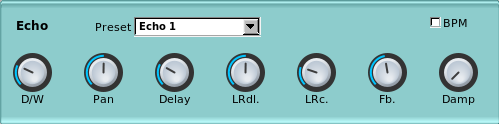
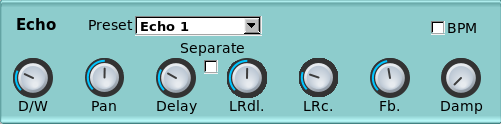
Deploy generated site
Based on source repo commit:
7684ace16a8e54c7c7140626fee4b77de72f6f30

diff --git a/docs/user-guide/effects/effects.html b/docs/user-guide/effects/effects.html
@@ -15,11 +15,11 @@
         Effects can be applied to single instruments or as Master System/Insertion effects.
         <br>
         Most effects have a <b>Preset</b> dropdown which allows you to select some 'factory' preset.
-        <br> For any effect, if you select a preset and then change controls this dropdown will become blue to remind you the preset has changed.
+        For any effect, if you select a preset and then change controls the text in this dropdown will become blue to remind you the preset has changed.
         <br><br>
         Note:
         <br>
-        &emsp;With the exception of the EQ effect, the D/W (Dry/Wet) control becomes a Vol (Volume) control when applied as a Master System effect. These are controlled from the <a href=../main.html#system>Main</a> window. In this section we always refer to D/W.
+        &emsp;With the exception of the EQ effect, the D/W (Dry/Wet) control becomes a Vol (Volume) control when applied as a Master System effect. These are found in the <a href=../main.html#system>Main</a> window. In this section we always refer to D/W.
     </p>
 
     <!-- REVERB -->
@@ -29,7 +29,7 @@
     </p>
     <ul>
         <li>
-            <b>Preset</b> select a default preset and set controls accordingly
+            <b>Preset</b> selects a default preset and set controls accordingly
             <br>
 
         </li>
@@ -82,7 +82,7 @@
     </p>
     <ul>
         <li>
-            <b>Preset</b> select a default preset and set controls accordingly
+            <b>Preset</b> selects a default preset and set controls accordingly
         </li>
         <li>
             <b>BPM</b> When checked locks the delay control to the incoming MIDI clock
@@ -94,7 +94,13 @@
             <b>Pan</b> The left/right panning (panorama) for the effect
         </li>
         <li>
-            <b>LRdl.</b> Delay between left and right. This can effectively be used to create a 'stereo echo/delay' effect
+            <b>Delay</b> The time between echo repeats
+        </li>
+        <li>
+            <b>Separate</b> When checked, the Delay and LRdl controls change to separate left and right delay times, so they become quite independent
+        </li>
+        <li>
+            <b>LRdl.</b> Shortens/lengthens the delay of left and right in opposite directions. This can effectively be used to create a 'stereo echo/delay' effect
         </li>
         <li>
             <b>LRc.</b> Left/Right crossover. This defines how echos cross left to right. Or how the delays are 'spread' over the stereo (left/right panorama). To hear a difference there also needs to be a non-zero value in the above LRdl. control
@@ -115,7 +121,7 @@
 
     <ul>
         <li>
-            <b>Preset</b> select a default preset and set controls accordingly
+            <b>Preset</b> selects a default preset and set controls accordingly
         </li>
         <li>
             <b>Subtract</b> Inverts the output if selected so it tends to subtract from the incoming signal rather than adding to it.
@@ -166,7 +172,7 @@
 
     <ul>
         <li>
-            <b>Preset</b> select a default preset and set controls accordingly
+            <b>Preset</b> selects a default preset and set controls accordingly
         </li>
         <li>
             <b>D/W</b> Dry/Wet balance. If completely to the left only the dry signal (no phaser) will be heard
@@ -230,7 +236,7 @@
 
     <ul>
         <li>
-            <b>Preset</b> select a default preset and set controls accordingly
+            <b>Preset</b> selects a default preset and set controls accordingly
         </li>
         <li>
             <b>Phase</b> Phase of the AlienWah effect. This sets the vocal sound between an 'Aahh' and an 'Eehh'
@@ -281,7 +287,7 @@
     </p>
     <ul>
         <li>
-            <b>Preset</b> select a default preset and set controls accordingly
+            <b>Preset</b> selects a default preset and set controls accordingly
         </li>
         <li>
             <b>Pan</b> The left/right panning (panorama) for the effect
@@ -326,7 +332,7 @@
             <b>Gain</b> Gain of the equalised signal
         </li>
         <li>
-            <b>Band</b> Band number. The EQ effect provides up to 8 'bands' each of which can be an independent filter
+            <b>Band</b> Band number. The EQ effect provides up to 8 'bands' each of which is an independent filter
         </li>
         <li>
             <b>Type</b> Filter type for the selected band
@@ -335,7 +341,7 @@
             <b>Freq</b> Filter frequency. Depending on the type of filter this can be the cut-off or centre frequency
         </li>
         <li>
-            <b>Gain</b> Gain for the filter, if foreseen by the type of filter (e.g. peak, high-shelf, low-shelf)
+            <b>Gain</b> Gain for the filter, if made available by the type of filter (e.g. peak, high-shelf, low-shelf)
         </li>
         <li>
             <b>Q</b> Q factor for the filter. Depending on the type of filter this can be the 'resonance', 'width', etc.
@@ -355,7 +361,7 @@
     <p>
     <ul>
         <li>
-            <b>Preset</b> select a default preset and set controls accordingly
+            <b>Preset</b> selects a default preset and set controls accordingly
         </li>
         <li>
             <b>D/W</b> Dry/Wet balance. If completely to the left only the dry signal (no DynFilter) will be heard
@@ -367,7 +373,7 @@
             <b>Freq</b> DynFilter LFO Frequency
         </li>
         <li>
-            <b>Start</b> The position (phase) in the LFO to set when the note starts
+            <b>Start</b> Only when BPM is active, this sets the position (phase) in the LFO when the note starts
         </li>
         <li>
             <b>Rnd</b> Randomness of the LFO Frequency
@@ -398,7 +404,7 @@
     </p>
     <p>
     <img src="images/dynfilter_filter_params.png" alt="DynFilter Filter Panel" class="image">
-    These controls are the same as the <a href="../filter/filter.html">Filter Type</a> ones. Here, of course, the velocity sense controls are disabled.
+    These controls are the same as the <a href="../filter/filter.html">Filter Type</a> ones. Here, however, the velocity sense controls are disabled.
     <img src="../images/boundry.png" alt="divider" class="wideline">
     <a href="#phaser">Back to Phaser</a>
     <a href="#top" class="up">Back to top</a>

diff --git a/docs/user-guide/preset/preset.html b/docs/user-guide/preset/preset.html
@@ -13,19 +13,20 @@
     <img src="images/paste.png" alt="Paste Window" class="small">    <img src="images/copy.png" alt="Copy Window" class="small">
 
     <p>
-    These two very similar windows are the ones that open when you click on the blue 'C' or 'P' buttons. For both windows, at the top you will see the type of preset that is being managed - Effects in the images shown. Next is a list of all the ones of that type saved in the current Presets directory.
+    These two very similar windows are the ones that open when you click on the blue 'C' or 'P' buttons. For both windows, at the top you will see the type of preset that is being managed - SubSynth in the images shown. Next is a list of all the ones of that type saved in the current Presets directory. <br> The preset directory can be selected from the main window dropdown menu entry "Path->Preset Dirs..."
+    </p>
+    <p>
+    Each preset type has it's own clipboard, so you can have several different types held at the same time, but only one of each type.
+    <br><br>
+     All clipboards remain in place unless overwritten so you can quickly make multiple copies. They are also retained over hard resets, and even when restarting the computer.
     </p>
     <p>
     <b>Copy</b>
-    You can copy to either a file or to the clipboard. Each preset type has it's own clipboard, so you can have several different types held at the same time, but only 1 of each type. All clipboards are cleared on a main reset, otherwise they remain in place unless overwritten so you can quickly make multiple copies.
-    <br><br>
-    When copying to file, you can either select one in the list to overwrite it, or enter a new name. In either case the 'Copy to Preset' button is activated to perform the actual copy.
+    If there are any entries in the presets list, selecting one fills in the 'Name' field and activates the 'Copy to Preset' button. Alternatively you can fill in a new name. Once there is an entry, clicking on the button will store it in the current presets directory. You can also copy it to the clipboard. No name is used there.
     </p>
     <p>
     <b>Paste</b>
-    If there is no current clipboard entry 'Paste from Clipboard' is inactive.
-    <br><br>
-    Selecting a preset from the list makes the 'Paste From Preset' button active, and a click on this will then perform the operation. At the same time, the 'Delete' button is activated so you can remove this entry from the list.
+    If there are any entries in the presets list, selecting one makes the 'Paste From Preset' button active, and a click on this will then perform the operation. At the same time, the 'Delete' button is activated so you can remove this entry from the list.<br>Alternatively, you can paste from the clipboard if an entry is there. If the button is disabled there is currently no entry for that clipboard.
     </p>
   </body>
 </html>

diff --git a/docs/user-guide/yoshimi_cli.html b/docs/user-guide/yoshimi_cli.html
@@ -63,15 +63,16 @@ Usage: yoshimi [OPTION...]
   -J, --jack-audio[=&lt;server&gt;]   use jack audio output
   -k, --autostart-jack       auto start jack server
   -K, --auto-connect         auto connect jack audio
-  -l, --load=&lt;file&gt;          load .xmz file
-  -L, --load-instrument=&lt;file&gt;   load .xiz file
+  -l, --load=&lt;file&gt;          load .xmz parameters file
+  -L, --load-instrument=&lt;file&gt [@part];
+                             load .xiz instrument file(no space)@n to part 'n'
   -M, --load-midilearn=&lt;file&gt;   load .xly file
       --null                 use Null-backend without audio/midi
   -N, --name-tag=&lt;tag&gt;       add tag to clientname
   -o, --oscilsize=&lt;size&gt;     set AddSynth oscillator size
   -R, --samplerate=&lt;rate&gt;    set alsa audio sample rate
-  -S, --state[=&lt;file&gt;]       load saved state, defaults to
-                             '$HOME/.config/yoshimi/yoshimi-0.state'
+  -S, --state[=&lt;file&gt;]       load .state complete machine setup file
+  -S, --state[=<file>]             load .state complete machine setup file
   -u, --jack-session-file=&lt;file&gt;   load named jack session file
   -U, --jack-session-uuid=&lt;uuid&gt;   jack session uuid
   -?, --help                 Give this help list

diff --git a/downloads.html b/downloads.html
@@ -76,10 +76,10 @@ Here are links to source archives that you can compile on your machine.
   <tbody>
   <tr>
     <td>
-      <a href="https://github.com/Yoshimi/yoshimi/archive/2.3.1.zip">2.3.1</a>
+      <a href="https://github.com/Yoshimi/yoshimi/archive/2.3.2.zip">2.3.2</a>
     </td>
     <td>
-      <a href="https://github.com/Yoshimi/yoshimi/archive/2.3.1.tar.gz">2.3.1</a>
+      <a href="https://github.com/Yoshimi/yoshimi/archive/2.3.2.tar.gz">2.3.2</a>
     </td>
   </tr>
   </tbody>
@@ -99,6 +99,14 @@ Here are links to source archives that you can compile on your machine.
     </tr>
   </thead>
   <tbody>
+  <tr>
+    <td>
+      <a href="https://github.com/Yoshimi/yoshimi/archive/2.3.1.zip">2.3.1</a>
+    </td>
+    <td>
+      <a href="https://github.com/Yoshimi/yoshimi/archive/2.3.1.tar.gz">2.3.1</a>
+    </td>
+  </tr>
   <tr>
     <td>
       <a href="https://github.com/Yoshimi/yoshimi/archive/2.3.0.zip">2.3.0</a>

diff --git a/history.html b/history.html
@@ -215,6 +215,9 @@
     In mid-October of 2023, 2.3.1 was released. It added the ability to export Scala tunings and keymaps, and improved keymap handling among other smaller fixes.
     In the meantime a lot of work was put in to improve the user guide and reference manual, primarily by <span class="person">Art Horan</span>
   </p>
+  <p>
+    2.3.2 was released about four months later, introducing independently controllable left/right delay for the echo effect and a couple of new instruments. Behind the scenes, there were also considerable work on code consistency and documentation, as well as numerous small gui improvements and bug fixes.
+  </p>
   <p>And the story continues...</p>
 
 </div>

diff --git a/docs/user-guide/index.html b/docs/user-guide/index.html
@@ -8,8 +8,9 @@
     This work is licensed under a <a rel="license" href="http://creativecommons.org/licenses/by-sa/4.0/">Creative Commons Attribution-ShareAlike 4.0 International License</a>.
   </head>
   <body>
-  <!-- The next line must not be changed. It is edited at build time -->
-    <h1 style="text-align: center;">The Yoshimi User Guide V2.3.1<!--xxxxx--></h1>
+  <!-- The next line must not be changed in any way. It is edited at build time -->
+    <h1 style="text-align: center;">The Yoshimi User Guide V2.3.2<!--xxxxx--></h1>
+
 
     <img src="images/Main.png" alt="Contents Window" class="image">
     <p>

diff --git a/docs/user-guide/miscellany.html b/docs/user-guide/miscellany.html
@@ -133,6 +133,24 @@
     <div class="tab">
     stringish
     </div>
+    <br>
+    <b>V 2.3.2</b><br>
+    Choir and Voice
+    <div class="tab">
+    Dooo
+    </div>
+    Reed and Wind
+    <div class="tab">
+    Dooo Flute
+    </div>
+    Drums
+    <div class="tab">
+    Gritty Shaker
+    </div>
+    Noises
+    <div class="tab">
+    Frogs
+    </div>
     </p>
 
   </body>
